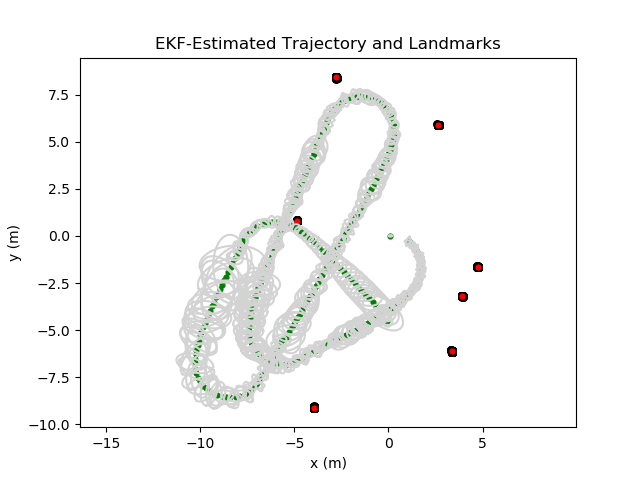
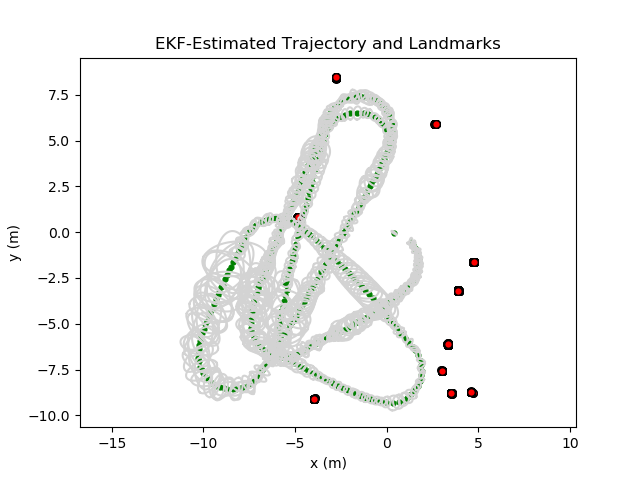
Add mode to generate random map, and create a traj based on that, then create the measurements for the run. This executes but the resulting plot is pretty bad, not sure if it's a problem with the generator or the EKF. Also fixed the RSS plot and commented out the thing that saves over it every time 

diff --git a/ekf_ws/src/ekf_pkg/src/data_fwd_node.py b/ekf_ws/src/ekf_pkg/src/data_fwd_node.py
@@ -9,14 +9,13 @@ import rospy
 import rospkg
 from std_msgs.msg import Float32MultiArray
 from geometry_msgs.msg import Vector3
-from matplotlib import pyplot as plt
 import sys
 from random import random
-from math import pi
+from math import pi, atan2, remainder, tau, cos, sin
 import numpy as np
 
 ############ GLOBAL VARIABLES ###################
-USE_RSS_DATA = True # T = use demo set. F = randomize map and create new traj.
+USE_RSS_DATA = False # T = use demo set. F = randomize map and create new traj.
 DT = 0.5 # timer period used if cmd line param not provided.
 odom_pub = None
 lm_pub = None
@@ -59,50 +58,6 @@ def read_rss_data():
     z_id_file = open(pkg_path+"/data/ekf_zind_m.csv", "r")
     z_id = [int(num) for num in z_id_file.readlines()[0].split(",")]
 
-    # send data one at a time to the ekf.
-    send_data(odom_dist, odom_hdg, z_id, z_range, z_bearing)
-
-
-def generate_data():
-    """
-    Create a set of 20 landmarks forming the map.
-    Choose a trajectory through the space that will
-    come near a reasonable amount of landmarks.
-    Generate this trajectory's odom commands and
-    measurements for all timesteps.
-    Publish these one at a time for the EKF.
-    """
-    x0 = np.array([[0.0],[0.0],[0.0]])
-    ################ GENERATE MAP #######################
-    BOUND = 10 # all lm will be w/in +- BOUND in both x/y.
-    NUM_LANDMARKS = 20
-    MIN_SEP = 0.05 # min dist between landmarks.
-    # key = integer ID. value = (x,y) position.
-    landmarks = {}; id = 0
-    while len(landmarks.keys() < NUM_LANDMARKS):
-        x_pos = 2*BOUND*random() - BOUND
-        y_pos = 2*BOUND*random() - BOUND
-        dists = [ ((lm_pos[0]-x_pos)**2 + (lm_pos[1]-y_pos)**2)**(1/2) < MIN_SEP for lm_pos in landmarks.values()]
-        if True not in dists:
-            landmarks[id] = (x_pos, y_pos)
-            id += 1
-    ############# GENERATE TRAJECTORY ###################
-    NUM_TIMESTEPS = 1000
-    # constraints:
-    ODOM_D_MAX = 0.1; ODOM_TH_MAX = 0.0546
-
-    odom_dist = None; odom_hdg = None
-    ############# GENERATE MEASUREMENTS #################
-    # vision constraints:
-    RANGE_MAX = 4; FOV = [-pi, pi]
-    
-    
-    z_id = None; z_range = None; z_bearing = None
-    #####################################################
-    send_data(odom_dist, odom_hdg, z_id, z_range, z_bearing)
-
-
-def send_data(odom_dist, odom_hdg, z_id, z_range, z_bearing):
     # send data one timestep at a time to the ekf.
     i_z = 0; i = 0
     r = rospy.Rate(1/DT) # freq in Hz
@@ -120,6 +75,174 @@ def send_data(odom_dist, odom_hdg, z_id, z_range, z_bearing):
             lm_pub.publish(lm_msg)
             i_z += 1
         i += 1
+        # sleep to publish at desired freq.
+        r.sleep()
+
+
+def norm(l1, l2):
+    # compute the norm of the difference of two lists or tuples.
+    # only use the first two elements.
+    return ((l1[0]-l2[0])**2 + (l1[1]-l2[1])**2)**(1/2) 
+
+
+def generate_data():
+    """
+    Create a set of 20 landmarks forming the map.
+    Choose a trajectory through the space that will
+    come near a reasonable amount of landmarks.
+    Generate this trajectory's odom commands and
+    measurements for all timesteps.
+    Publish these one at a time for the EKF.
+    """
+    ################ GENERATE MAP #######################
+    BOUND = 10 # all lm will be w/in +- BOUND in both x/y.
+    NUM_LANDMARKS = 20
+    MIN_SEP = 0.05 # min dist between landmarks.
+    # key = integer ID. value = (x,y) position.
+    landmarks = {}; id = 0
+    while len(landmarks.keys()) < NUM_LANDMARKS:
+        pos = (2*BOUND*random() - BOUND, 2*BOUND*random() - BOUND)
+        dists = [ norm(lm_pos, pos) < MIN_SEP for lm_pos in landmarks.values()]
+        if True not in dists:
+            landmarks[id] = pos
+            id += 1
+
+    ############# GENERATE TRAJECTORY ###################
+    NUM_TIMESTEPS = 1000
+    # constraints:
+    ODOM_D_MAX = 0.1; ODOM_TH_MAX = 0.0546
+    # process noise in EKF. will be used to add noise to odom.
+    V = np.array([[0.02**2,0.0],[0.0,0.5*pi/180**2]])
+    # param to keep track of true current pos.
+    x0 = [0.0,0.0,0.0]
+    x_v = x0
+    pos_true = [] # need this for next step.
+    # init the odom lists.
+    odom_dist = []; odom_hdg = []
+    """
+    We will use travelling salesman problem (TSP) - 
+    nearest neighbors approach to find an efficient path.
+    NOTE: We'll add noise to landmarks, but this method of
+    trajectory generation assumes we have a rough idea of 
+    where all landmarks are. The EKF doesn't get this info,
+    so it is still performing fully blind EKF SLAM, but
+    the trajectory planner is a knowing helper.
+    """
+    # make noisy version of rough map to use.
+    LM_NOISE = 0.3
+    noisy_lm = {}
+    for id in range(NUM_LANDMARKS):
+        noisy_lm[id] = (landmarks[id][0] + 2*LM_NOISE*random()-LM_NOISE, landmarks[id][1] + 2*LM_NOISE*random()-LM_NOISE)
+    # choose nearest landmark to x0 as first node.
+    cur_goal = 0; cur_dist = norm(noisy_lm[cur_goal], x_v)
+    for id in range(NUM_LANDMARKS):
+        if norm(noisy_lm[id], x_v) < cur_dist:
+            cur_goal = id
+            cur_dist = norm(noisy_lm[id], x_v)
+    # build directed graph using NN heuristic.
+    cur_node = cur_goal
+    # store path of lm indices to visit in order.
+    lm_path = [cur_node]
+    unvisited = [id for id in range(NUM_LANDMARKS)]
+    unvisited.remove(cur_node)
+    # find next nearest neighbor until all nodes are visited.
+    while len(unvisited) > 0:
+        cur_dist = -1
+        # find nearest node to current one.
+        for id in unvisited:
+            dist = norm(noisy_lm[id], noisy_lm[cur_node])
+            if cur_dist < 0 or dist < cur_dist:
+                cur_goal = id; cur_dist = dist
+        # add this as next node to visit.
+        lm_path.append(cur_goal)
+        cur_node = cur_goal
+        # mark it as visited.
+        unvisited.remove(cur_node)
+    # now traverse our graph to get an actual trajectory.
+    t = 0; THRESHOLD = 1.7
+    for t in range(NUM_TIMESTEPS):
+        # first entry in lm_path always the current goal.
+        # we will move it to the end once approx achieved.
+        # thus, robot will loop around until time runs out.
+        if norm(x_v, noisy_lm[lm_path[0]]) < THRESHOLD:
+            # mark as ~ arrived.
+            lm_path = lm_path[1:] + [lm_path[0]]
+
+        # move towards current goal.
+        # compute vector from veh pos to lm.
+        diff_vec = [noisy_lm[lm_path[0]][i] - x_v[i] for i in range(2)]
+        # extract range and bearing.
+        d = norm(noisy_lm[lm_path[0]], x_v)
+        gb = atan2(diff_vec[1], diff_vec[0]) # global bearing.
+        hdg = remainder(gb - x_v[2], tau) # bearing rel to robot.
+        # choose odom cmd w/in constraints.
+        d = min(d, ODOM_D_MAX) # always pos.
+        if abs(hdg) < ODOM_TH_MAX:
+            # cap magnitude but keep sign.
+            hdg = ODOM_TH_MAX * hdg / abs(hdg)
+        # update veh position given this odom cmd.
+        x_v = [x_v[0] + d*cos(x_v[2]), x_v[1] + d*sin(x_v[2]), x_v[2] + hdg]
+        pos_true.append(x_v)
+        # add noise to odom and add to trajectory.
+        odom_dist.append(d + 2*V[0,0]*random()-V[0,0])
+        odom_hdg.append(hdg + 2*V[1,1]*random()-V[1,1])
+
+    ############# GENERATE MEASUREMENTS #################
+    # vision constraints:
+    RANGE_MAX = 4; FOV = [-pi, pi]
+    # sensing noise in EKF.
+    W = np.array([[0.1**2,0.0],[0.0,1*pi/180**2]])
+    # init the meas lists.
+    z_num_det = []; z = []
+    """
+    To create measurements, we morph the truth with noise
+    from a known distribution, to emulate what a robot
+    might actually measure.
+    We will track the robot's true position, and use
+    known sensor range and FOV to determine which
+    landmarks are detected, and what the measured
+    range, bearing should be.
+    """
+    for t in range(NUM_TIMESTEPS):
+        # loop and determine which landmarks are visible.
+        visible_landmarks = []
+        for id in range(NUM_LANDMARKS):
+            # compute vector from veh pos to lm.
+            diff_vec = [landmarks[id][i] - pos_true[t][i] for i in range(2)]
+            # extract range and bearing.
+            r = norm(landmarks[id], pos_true[t])
+            gb = atan2(diff_vec[1], diff_vec[0]) # global bearing.
+            beta = remainder(gb - x_v[2], tau) # bearing rel to robot
+            # check if this is visible to the robot.
+            if r > RANGE_MAX:
+                continue
+            elif beta > FOV[0] and beta < FOV[1]:
+                # within range and fov.
+                visible_landmarks.append([id, r, beta])
+        # set number of detections on this timestep.
+        z_num_det.append(len(visible_landmarks))
+        # add noise to all detections and add to list.
+        z.append(sum([[visible_landmarks[i][0], visible_landmarks[i][1]+2*W[0,0]*random()-W[0,0], visible_landmarks[i][2]+2*W[1,1]*random()-W[1,1]] for i in range(len(visible_landmarks))], []))
+
+    ############### SEND DATA ################
+    # send data one timestep at a time to the ekf.
+    t = 0
+    r = rospy.Rate(1/DT) # freq in Hz
+    while not rospy.is_shutdown():
+        if t == NUM_TIMESTEPS: return
+    
+        odom_msg = Vector3()
+        odom_msg.x = odom_dist[t]
+        odom_msg.y = odom_hdg[t]
+        # rospy.logwarn("Sending odom: "+str(odom_msg))
+        odom_pub.publish(odom_msg)
+        # only send landmarks when there is a detection.
+        if z_num_det[t] > 0:
+            lm_msg = Float32MultiArray()
+            lm_msg.data = z[t]
+            # rospy.logwarn("Sending lm: "+str(lm_msg))
+            lm_pub.publish(lm_msg)
+        t += 1
         # sleep to publish at desired freq.
         r.sleep()
 

diff --git a/ekf_ws/src/ekf_pkg/src/ekf_node.py b/ekf_ws/src/ekf_pkg/src/ekf_node.py
@@ -97,7 +97,8 @@ def ekf_iteration(event):
                 dist = ((x_t[i,0]-x_pred[0,0])**2 + (x_t[i+1,0]-x_pred[1,0])**2)**(1/2)
                 H_xv = np.array([[-(x_t[i,0]-x_pred[0,0])/dist, -(x_t[i+1,0]-x_pred[1,0])/dist, 0], [(x_t[i+1,0]-x_pred[1,0])/(dist**2), -(x_t[i,0]-x_pred[0,0])/(dist**2), -1]])
                 H_xp = np.array([[(x_t[i,0]-x_pred[0,0])/dist, (x_t[i+1,0]-x_pred[1,0])/dist], [-(x_t[i+1,0]-x_pred[1,0])/(dist**2), (x_t[i,0]-x_pred[0,0])/(dist**2)]])
-                H_x = np.zeros((2,x_t.shape[0]))
+                # H_x = np.zeros((2,x_t.shape[0]))
+                H_x = np.zeros((2,x_pred.shape[0]))
                 H_x[0:2,0:3] = H_xv
                 H_x[0:2,i:i+2] = H_xp
                 H_w = np.eye(2)

diff --git a/ekf_ws/src/ekf_pkg/src/plotting_node.py b/ekf_ws/src/ekf_pkg/src/plotting_node.py
@@ -74,7 +74,8 @@ def get_state(msg):
 def save_plot():
     # save plot we've been building upon exit.
     # save to a file in pkg/plots directory.
-    plt.savefig(pkg_path+"/plots/rss_test.png", format='png')
+    # plt.savefig(pkg_path+"/plots/rss_test.png", format='png')
+    pass
 
 def main():
     global pkg_path
